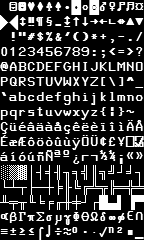
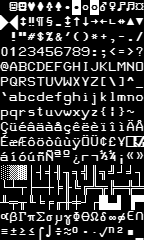
hp 264x font update

diff --git a/src/net/torvald/tsvm/peripheral/GraphicsAdapter.kt b/src/net/torvald/tsvm/peripheral/GraphicsAdapter.kt
@@ -35,12 +35,12 @@ open class GraphicsAdapter(val vm: VM, val config: AdapterConfig) :
         return vm
     }
 
-    private val WIDTH = config.width
-    private val HEIGHT = config.height
-    private val VRAM_SIZE = config.vramSize
-    private val TTY_FORE_DEFAULT = config.ttyDefaultFore
-    private val TTY_BACK_DEFAULT = config.ttyDefaultBack
-    private val theme = config.theme
+    protected val WIDTH = config.width
+    protected val HEIGHT = config.height
+    protected val VRAM_SIZE = config.vramSize
+    protected val TTY_FORE_DEFAULT = config.ttyDefaultFore
+    protected val TTY_BACK_DEFAULT = config.ttyDefaultBack
+    protected val theme = config.theme
 
     internal val framebuffer = Pixmap(WIDTH, HEIGHT, Pixmap.Format.Alpha)
     protected var rendertex = Texture(1, 1, Pixmap.Format.RGBA8888)
@@ -50,7 +50,7 @@ open class GraphicsAdapter(val vm: VM, val config: AdapterConfig) :
         rgba.shr((3 - channel) * 8).and(255) / 255f
     }
     protected val chrrom0 = Texture(config.chrRomPath)
-    private val faketex: Texture
+    protected val faketex: Texture
 
     internal val spriteAndTextArea = UnsafeHelper.allocate(10660L)
     protected val unusedArea = ByteArray(92)
@@ -576,9 +576,9 @@ open class GraphicsAdapter(val vm: VM, val config: AdapterConfig) :
         rendertex = Texture(framebuffer, Pixmap.Format.RGBA8888, false)
 
         outFBOs[1].inUse {
-            blendNormal(batch)
             batch.shader = null
             batch.inUse {
+                blendNormal(batch)
                 batch.color = decayColor
                 batch.draw(outFBOs[0].colorBufferTexture, 0f, HEIGHT.toFloat(), WIDTH.toFloat(), -HEIGHT.toFloat())
             }

diff --git a/src/net/torvald/tsvm/peripheral/TexticsAdapter.kt b/src/net/torvald/tsvm/peripheral/TexticsAdapter.kt
@@ -1,10 +1,13 @@
 package net.torvald.tsvm.peripheral
 
+import com.badlogic.gdx.graphics.Color
+import com.badlogic.gdx.graphics.GL20
 import com.badlogic.gdx.graphics.Pixmap
 import com.badlogic.gdx.graphics.Texture
 import com.badlogic.gdx.graphics.g2d.SpriteBatch
 import net.torvald.tsvm.VM
 import net.torvald.tsvm.kB
+import kotlin.math.absoluteValue
 
 class TexticsAdapter(vm: VM) : GraphicsAdapter(vm, AdapterConfig(
     "crt",
@@ -31,6 +34,8 @@ class TexticsAdapter(vm: VM) : GraphicsAdapter(vm, AdapterConfig(
     0.64f
 )) {*/
 
+    private val crtGradTex = Texture("./crt_grad.png")
+
     override fun peek(addr: Long): Byte? {
         return when (addr) {
             in 0 until 250880 -> (-1).toByte()
@@ -45,4 +50,24 @@ class TexticsAdapter(vm: VM) : GraphicsAdapter(vm, AdapterConfig(
         }
     }
 
+    private val TEX_HEIGHT = WIDTH * Math.sqrt(HEIGHT.toDouble() / WIDTH).toFloat()
+    private val ALIGN = (HEIGHT - TEX_HEIGHT).absoluteValue / 2f
+
+    override fun render(delta: Float, batch: SpriteBatch, xoff: Float, yoff: Float) {
+        super.render(delta, batch, xoff, yoff)
+
+        // CRT's default grey
+        batch.inUse {
+            batch.enableBlending()
+            batch.setBlendFunction(GL20.GL_ONE, GL20.GL_ONE_MINUS_SRC_COLOR)
+            batch.color = Color.WHITE
+            batch.draw(crtGradTex, xoff, HEIGHT + ALIGN + yoff, WIDTH.toFloat(), -TEX_HEIGHT)
+            //batch.draw(crtGradTex, xoff, HEIGHT + yoff, WIDTH.toFloat(), -HEIGHT.toFloat())
+        }
+    }
+
+    override fun dispose() {
+        crtGradTex.dispose()
+        super.dispose()
+    }
 }
